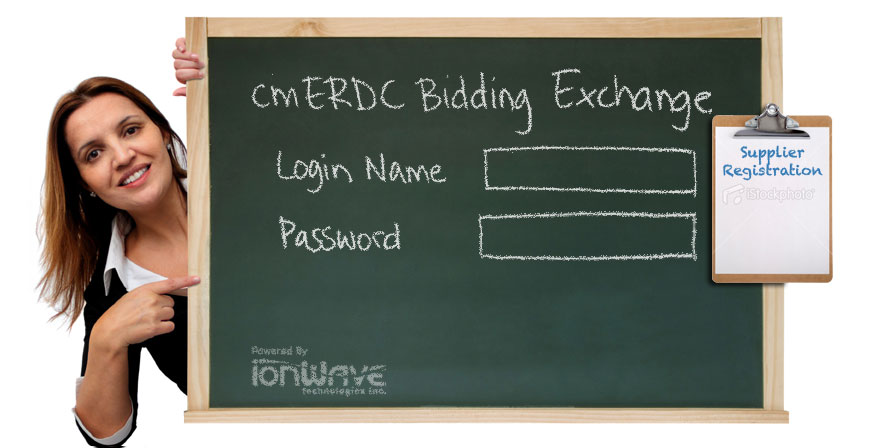
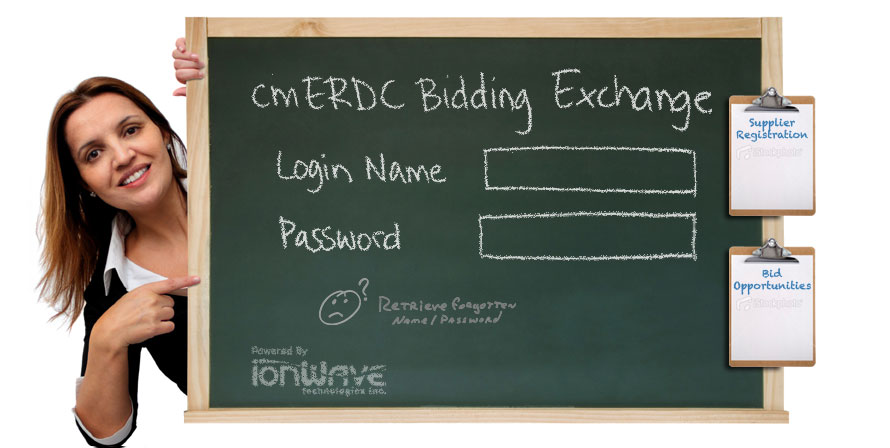
added bid opportunities

Changed region(s): [[0.7888, 0.1875, 0.9404, 0.8438], [0.364, 0.625, 0.5764, 0.75]]

diff --git a/supplies/_default/panelItems/h_Vendor_Bidding.html b/supplies/_default/panelItems/h_Vendor_Bidding.html
@@ -10,7 +10,10 @@
 
 
 		<A href='https://cmerdc.ionwave.net/UserReset.aspx'><div class='forgotButton' style='position:absolute;top:273px;left:326px;height:47px;width:200px;' '></div></a>
-	<a href='https://cmerdc.ionwave.net/VendorRegistration.aspx'><div class='registerButton' style='position:absolute;top:195px;left:726px;height:64px;width:100px;' onclick='$("#ionwave").submit();'></div></a>
+	<a href='https://cmerdc.ionwave.net/VendorRegistration.aspx'><div class='registerButton' style='position:absolute;top:142px;left:724px;height:64px;width:100px;' onclick='$("#ionwave").submit();'></div></a>
+
+	<a href='https://cmerdc.ionwave.net/VendorRegistration.aspx'><div class='registerButton' style='position:absolute;top:292px;left:724px;height:64px;width:100px;' onclick='$("#ionwave").submit();'></div></a>
+
 		
 	</form>	
 		
